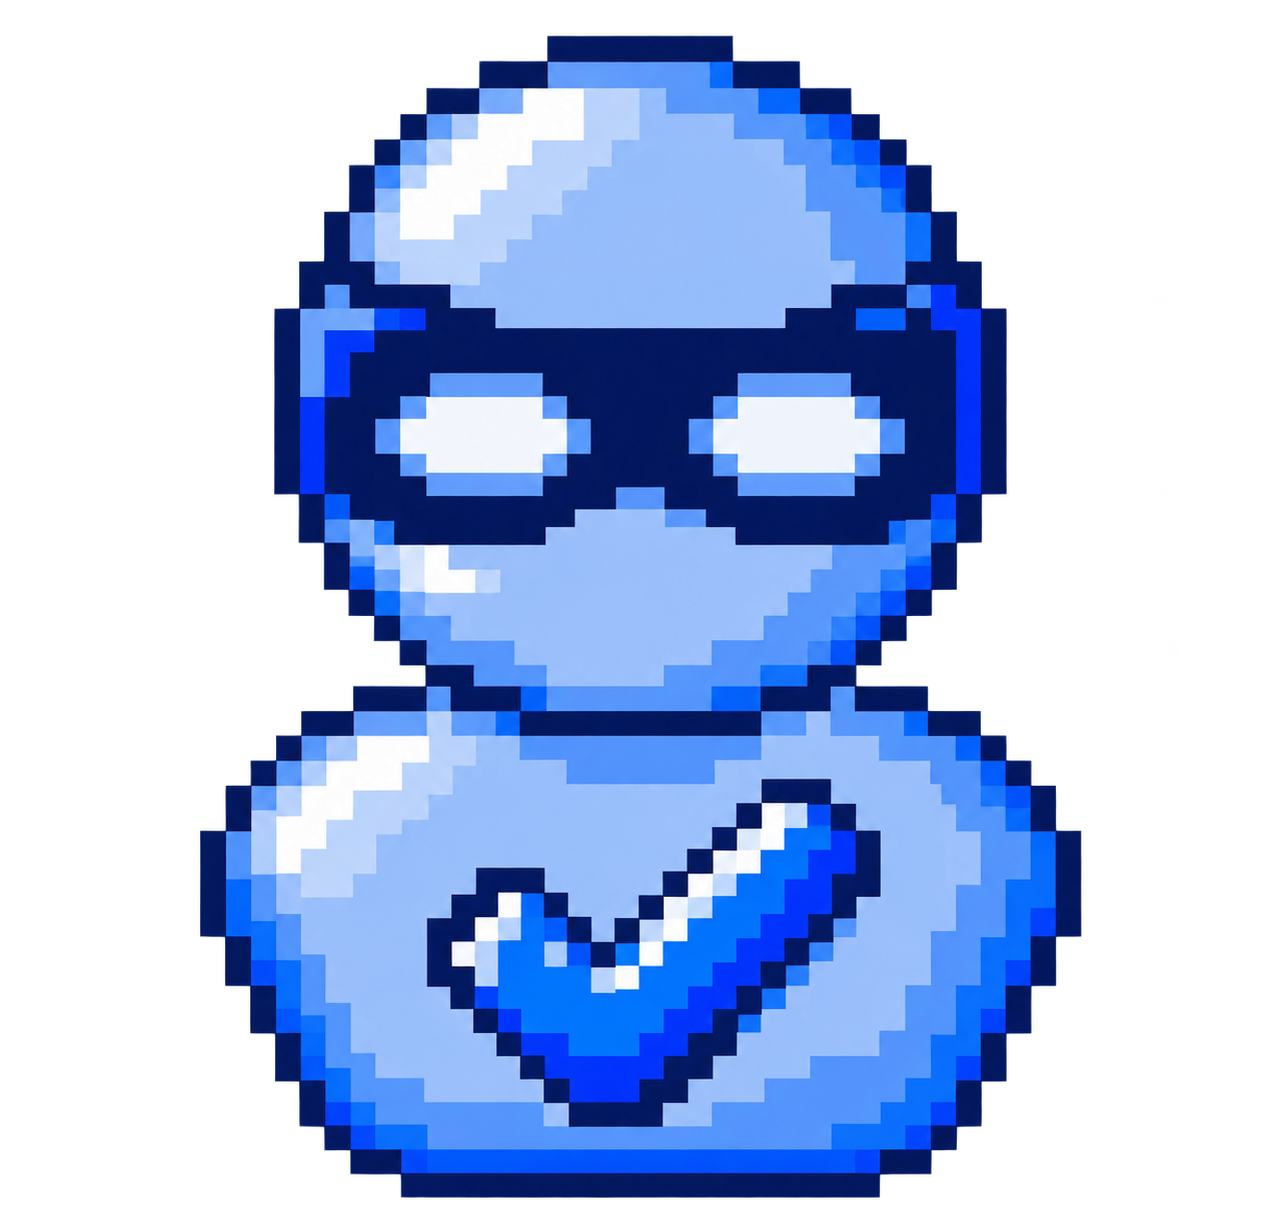
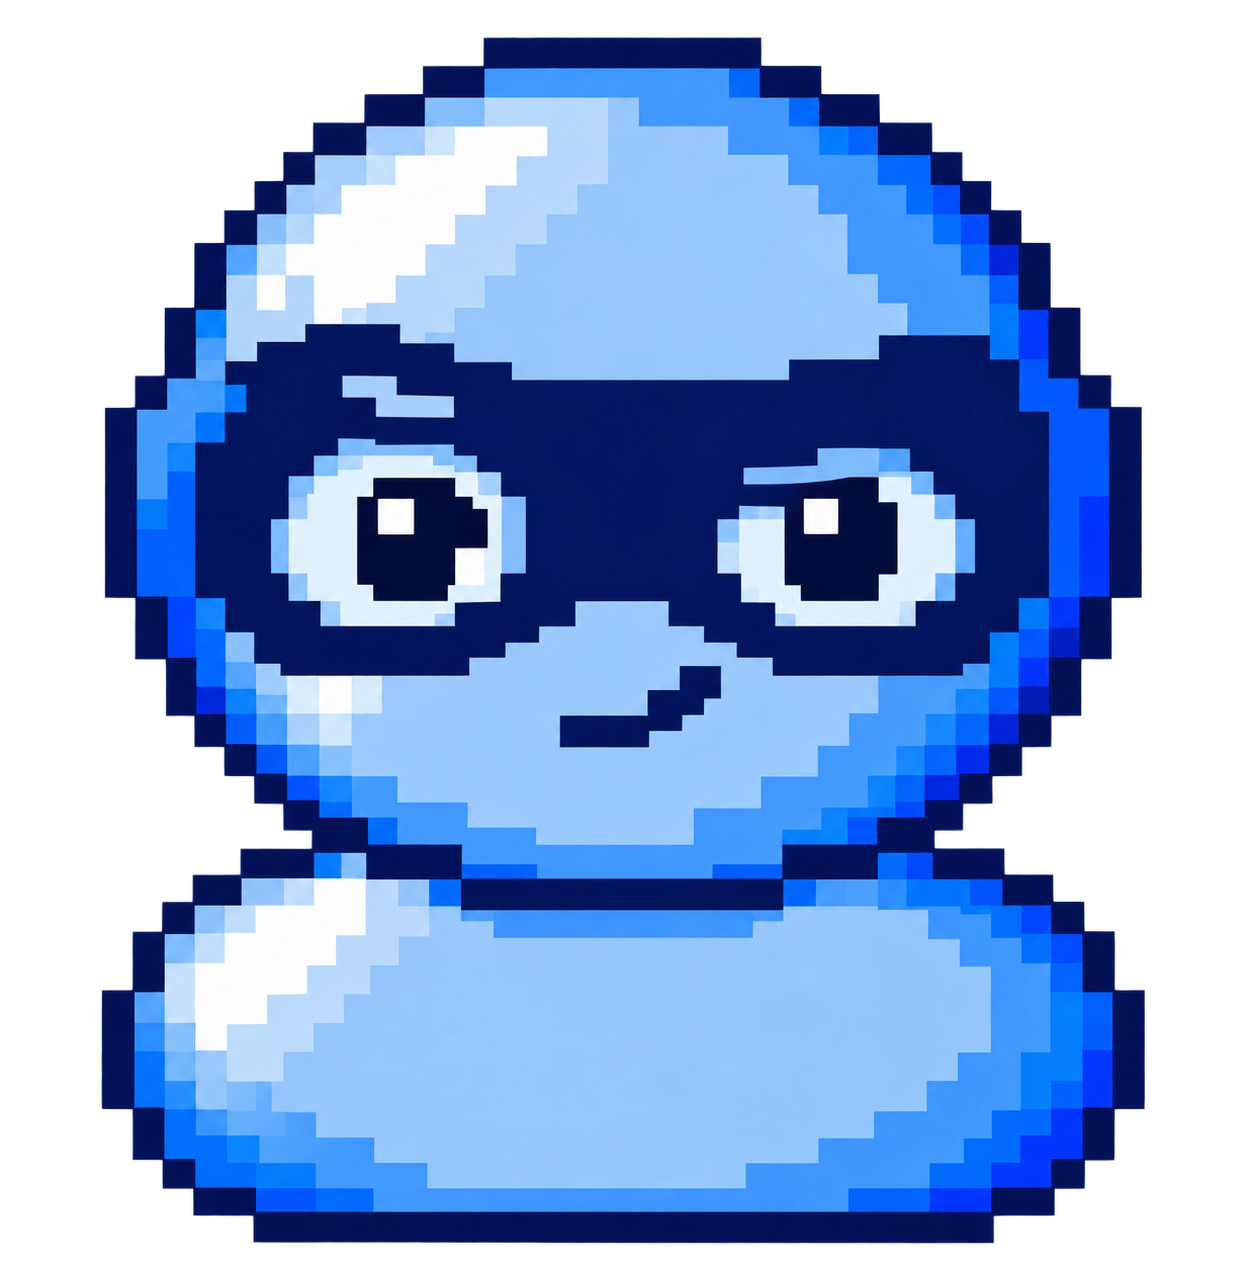
UI Update 2.0
I updated the logo, scenario icons, how it works and some other items.

diff --git a/frontend/src/components/RetroIcon.tsx b/frontend/src/components/RetroIcon.tsx
@@ -1,9 +1,46 @@
-type Props = { kind: "laptop" | "bank" | "gift" | "phone"; className?: string };
+type Props = { kind: "laptop" | "bank" | "gift" | "phone" | "family" | "gift-card" | "briefcase" | "package"; className?: string };
 export default function RetroIcon({ kind, className }: Props) {
   return <svg className={className} viewBox="0 0 120 100" fill="none" aria-hidden="true" shapeRendering="crispEdges">
     {kind === "laptop" && <g stroke="#09134d" strokeWidth="4"><path d="M26 12H96V68H26Z" fill="#d0c9ae"/><path d="M33 19H89V60H33Z" fill="#3988de"/><path d="M35 21H86L35 58Z" fill="#83c5ff" stroke="none"/><path d="M26 68H96L108 85H14Z" fill="#e9e4ce"/><path d="M14 85H108V92H14Z" fill="#8e97b4"/><path d="M32 76H88M44 83H72" stroke="#666b83"/></g>}
     {kind === "bank" && <g stroke="#09134d" strokeWidth="4"><path d="M12 35L60 8L108 35Z" fill="#a6bada"/><path d="M27 30L60 14L93 30" stroke="#edf1dc"/><path d="M18 37H102V44H18Z" fill="#dadfcf"/><path d="M24 44H36V78H24ZM46 44H58V78H46ZM68 44H80V78H68ZM90 44H102V78H90Z" fill="#b0c2dc"/><path d="M18 79H108V87H18ZM12 87H114V94H12Z" fill="#cdd9e5"/></g>}
     {kind === "gift" && <g stroke="#09134d" strokeWidth="4"><path d="M25 39H97V92H25Z" fill="#ffc937"/><path d="M18 27H104V45H18Z" fill="#ffdf68"/><path d="M53 27H68V92H53Z" fill="#f33d4b"/><path d="M57 27C23 27 21 7 35 7C48 7 57 27 57 27ZM64 27C98 27 101 7 87 7C74 7 64 27 64 27Z" fill="#f33d4b"/><path d="M31 52V83M75 52H90" stroke="#fff19a"/></g>}
+    {kind === "family" && (
+      <g stroke="#09134d" strokeWidth="4">
+        <path d="M13 88V72C13 55 47 55 47 72V88Z" fill="#8fc6ff" />
+        <path d="M73 88V72C73 55 107 55 107 72V88Z" fill="#8fc6ff" />
+        <circle cx="30" cy="36" r="15" fill="#ffe2b6" />
+        <circle cx="90" cy="36" r="15" fill="#ffe2b6" />
+        <path d="M39 94V81C39 63 81 63 81 81V94Z" fill="#77d6b4" />
+        <circle cx="60" cy="55" r="13" fill="#ffe2b6" />
+        <path d="M55 9H65V20H76V30H65V41H55V30H44V20H55Z" fill="#f15c67" strokeWidth="2" />
+      </g>
+    )}
+    {kind === "gift-card" && (
+      <g stroke="#09134d" strokeWidth="4">
+        <rect x="12" y="22" width="96" height="62" rx="5" fill="#ffdb70" />
+        <path d="M14 39H106V51H14Z" fill="#f15c67" />
+        <path d="M40 24V82H52V24Z" fill="#f15c67" />
+        <path d="M45 39C17 39 20 13 32 17C41 20 45 39 45 39ZM48 39C76 39 73 13 61 17C52 20 48 39 48 39Z" fill="#f15c67" />
+        <path d="M66 65H94M66 73H84" stroke="#fff6cd" />
+      </g>
+    )}
+    {kind === "briefcase" && (
+      <g stroke="#09134d" strokeWidth="4">
+        <path d="M43 31V14H77V31H68V23H52V31Z" fill="#a7bad3" />
+        <rect x="13" y="31" width="94" height="60" rx="3" fill="#84b5eb" />
+        <path d="M13 36V56L60 68L107 56V36" fill="#b6d8fa" />
+        <path d="M53 59H67V76H53Z" fill="#ffda68" />
+        <path d="M21 77V83H43" stroke="#e6f4ff" />
+      </g>
+    )}
+    {kind === "package" && (
+      <g stroke="#09134d" strokeWidth="4">
+        <path d="M16 29L59 11L104 29V76L60 95L16 76Z" fill="#d7a666" />
+        <path d="M16 29L60 48L104 29M60 48V95" />
+        <path d="M43 18L87 36V53L74 59V42L31 23Z" fill="#fff0bd" strokeWidth="2" />
+        <path d="M25 50L47 60V75L25 65Z" fill="#f4e5c6" strokeWidth="2" />
+      </g>
+    )}
     {kind === "phone" && <g stroke="#09134d" strokeWidth="3"><path d="M19 48L88 40L109 78L94 92L17 83Z" fill="#d6d0b6"/><path d="M20 48L85 43L96 76L23 70Z" fill="#eee9d5"/><path d="M23 70L96 76V87L23 79Z" fill="#b5af98" stroke="none"/><path d="M43 44L74 42L89 69L51 70Z" fill="#418fcb"/><path d="M30 35C25 8 91 3 101 23L101 37L86 40L78 25L45 28L43 42L29 43Z" fill="#f0ecd5"/><path d="M34 31C37 18 85 14 92 26" stroke="#fffbed" strokeWidth="5"/><path d="M18 41C4 47 3 58 9 64C-1 72 6 91 21 91L25 82" stroke="#09134d" strokeWidth="6"/><path d="M18 43C7 48 6 58 12 65C3 75 9 87 21 87" stroke="#b9c5d6" strokeWidth="2"/>{[0,1,2].flatMap(row=>[0,1,2].map(col=><path key={`${row}-${col}`} d={`M${49+col*11+row*3} ${49+row*7}h6v4h-6Z`} fill="#fff9de" stroke="none"/>))}</g>}
   </svg>;
 }

diff --git a/frontend/src/styles/app.css b/frontend/src/styles/app.css
@@ -1069,3 +1069,114 @@ body, button, input, textarea, select, summary {
     font-size: 14px;
   }
 }
+
+/* Compact scenario cards, with room for longer scenario names. */
+.scenario-grid {
+  gap: 18px;
+}
+
+.scenario-card {
+  min-height: 250px;
+  padding: 20px;
+}
+
+.scenario-card--selected {
+  padding: 18px;
+}
+
+.scenario-icon {
+  width: 70px;
+  height: 62px;
+  margin-bottom: 10px;
+}
+
+.scenario-card h2 {
+  font-size: 25px;
+  margin: 4px 0 12px;
+}
+
+.scenario-card p {
+  font-size: 18px;
+  margin-bottom: 14px;
+  max-width: none;
+}
+
+.scenario-duration {
+  gap: 10px;
+  font-size: 17px;
+}
+
+.scenario-card .selection-box {
+  width: 26px;
+  height: 26px;
+  line-height: 22px;
+  font-size: 22px;
+  top: 18px;
+  right: 18px;
+}
+
+.scenario-card .clock-icon {
+  width: 25px;
+  height: 25px;
+}
+
+@media (max-width: 900px) {
+  .scenario-card {
+    min-height: 220px;
+  }
+}
+
+/* Keep the clock hands centered at the compact card size. */
+.scenario-card .clock-icon {
+  flex: 0 0 25px;
+}
+
+.scenario-card .clock-icon::before {
+  left: calc(50% - 1px);
+  top: calc(50% - 7px);
+  width: 2px;
+  height: 7px;
+}
+
+.scenario-card .clock-icon::after {
+  left: calc(50% - 1px);
+  top: calc(50% - 1px);
+  width: 7px;
+  height: 2px;
+}
+
+/* Center the matching green information boxes together. */
+.training-info-row {
+  display: flex;
+  justify-content: center;
+  align-items: stretch;
+  flex-wrap: wrap;
+  gap: 14px;
+  margin: 18px auto 28px;
+}
+
+.training-info-row .notice {
+  margin: 0;
+  width: auto;
+  min-height: 58px;
+  padding: 12px 22px;
+  border: 1px solid #11794d;
+  border-radius: 5px;
+  background: linear-gradient(#effff4, #d0ffdc);
+  color: var(--navy);
+  box-shadow: none;
+  font-size: 23px;
+  line-height: 1.4;
+}
+
+.training-help:focus-visible {
+  outline: 3px dotted var(--navy);
+  outline-offset: 4px;
+}
+
+@media (max-width: 900px) {
+  .training-info-row .notice {
+    font-size: 18px;
+    padding: 12px 16px;
+  }
+}

diff --git a/frontend/src/pages/HomePage.tsx b/frontend/src/pages/HomePage.tsx
@@ -6,9 +6,10 @@ import type { Scenario } from "../types";
 
 type HomePageProps = {
   onChooseScenario: (scenario: Scenario) => void;
+  onHowItWorks: () => void;
 };
 
-export default function HomePage({ onChooseScenario }: HomePageProps) {
+export default function HomePage({ onChooseScenario, onHowItWorks }: HomePageProps) {
   const [scenarios, setScenarios] = useState<Scenario[]>([]);
   const [selectedId, setSelectedId] = useState<string | null>(null);
   const [error, setError] = useState<string | null>(null);
@@ -29,9 +30,20 @@ export default function HomePage({ onChooseScenario }: HomePageProps) {
         </p>
       </header>
 
-      <section className="notice" aria-label="Safety notice">
-        <span aria-hidden="true">✓</span> <strong>Safe training simulation</strong>
-      </section>
+      <div className="training-info-row">
+        <section className="notice" aria-label="Safety notice">
+          <span aria-hidden="true">✓</span>
+          <strong>Safe training simulation</strong>
+        </section>
+        <button
+          type="button"
+          className="notice training-help"
+          onClick={onHowItWorks}
+        >
+          <span aria-hidden="true">?</span>
+          <strong>How It Works</strong>
+        </button>
+      </div>
 
       {error && <p className="error-message">Could not load scenarios: {error}</p>}
       {!error && scenarios.length === 0 && <p>Loading scenarios…</p>}

diff --git a/frontend/src/components/ScenarioCard.tsx b/frontend/src/components/ScenarioCard.tsx
@@ -4,9 +4,16 @@ type ScenarioCardProps = { scenario: Scenario; selected: boolean; onSelect: (sce
 export default function ScenarioCard({ scenario, selected, onSelect }: ScenarioCardProps) {
   const campus = scenario.id.includes("campus");
   const bank = scenario.id.includes("bank");
+  const scenarioKey = (scenario.id + " " + scenario.title).toLowerCase();
+  const icon = campus ? "laptop"
+    : bank ? "bank"
+    : scenarioKey.includes("family") ? "family"
+    : scenarioKey.includes("job") ? "briefcase"
+    : scenarioKey.includes("package") || scenarioKey.includes("delivery") ? "package"
+    : "gift-card";
   const description = campus ? "Protect your verification code." : bank ? "Verify before you transfer." : "Recognize payment pressure.";
   return <button type="button" className={`scenario-card ${selected ? "scenario-card--selected" : ""}`} aria-pressed={selected} onClick={() => onSelect(scenario)}>
-    <RetroIcon kind={campus ? "laptop" : bank ? "bank" : "gift"} className="scenario-icon" />
+    <RetroIcon kind={icon} className="scenario-icon" />
     <span className="selection-box" aria-hidden="true">{selected ? "✓" : ""}</span>
     <h2>{campus ? "Campus IT" : bank ? "Bank Alert" : scenario.title}</h2><p>{description}</p><span className="scenario-duration"><span className="clock-icon" aria-hidden="true"/>60 – 90 sec</span>
   </button>;

diff --git a/frontend/src/App.tsx b/frontend/src/App.tsx
@@ -45,7 +45,7 @@ export default function App() {
     );
   }
 
-  else { content = <HomePage onChooseScenario={chooseScenario} />; }
+  else { content = <HomePage onChooseScenario={chooseScenario} onHowItWorks={() => setShowHelp(true)} />; }
   return (
     <div className="desktop-window">
       <header className="desktop-titlebar">
